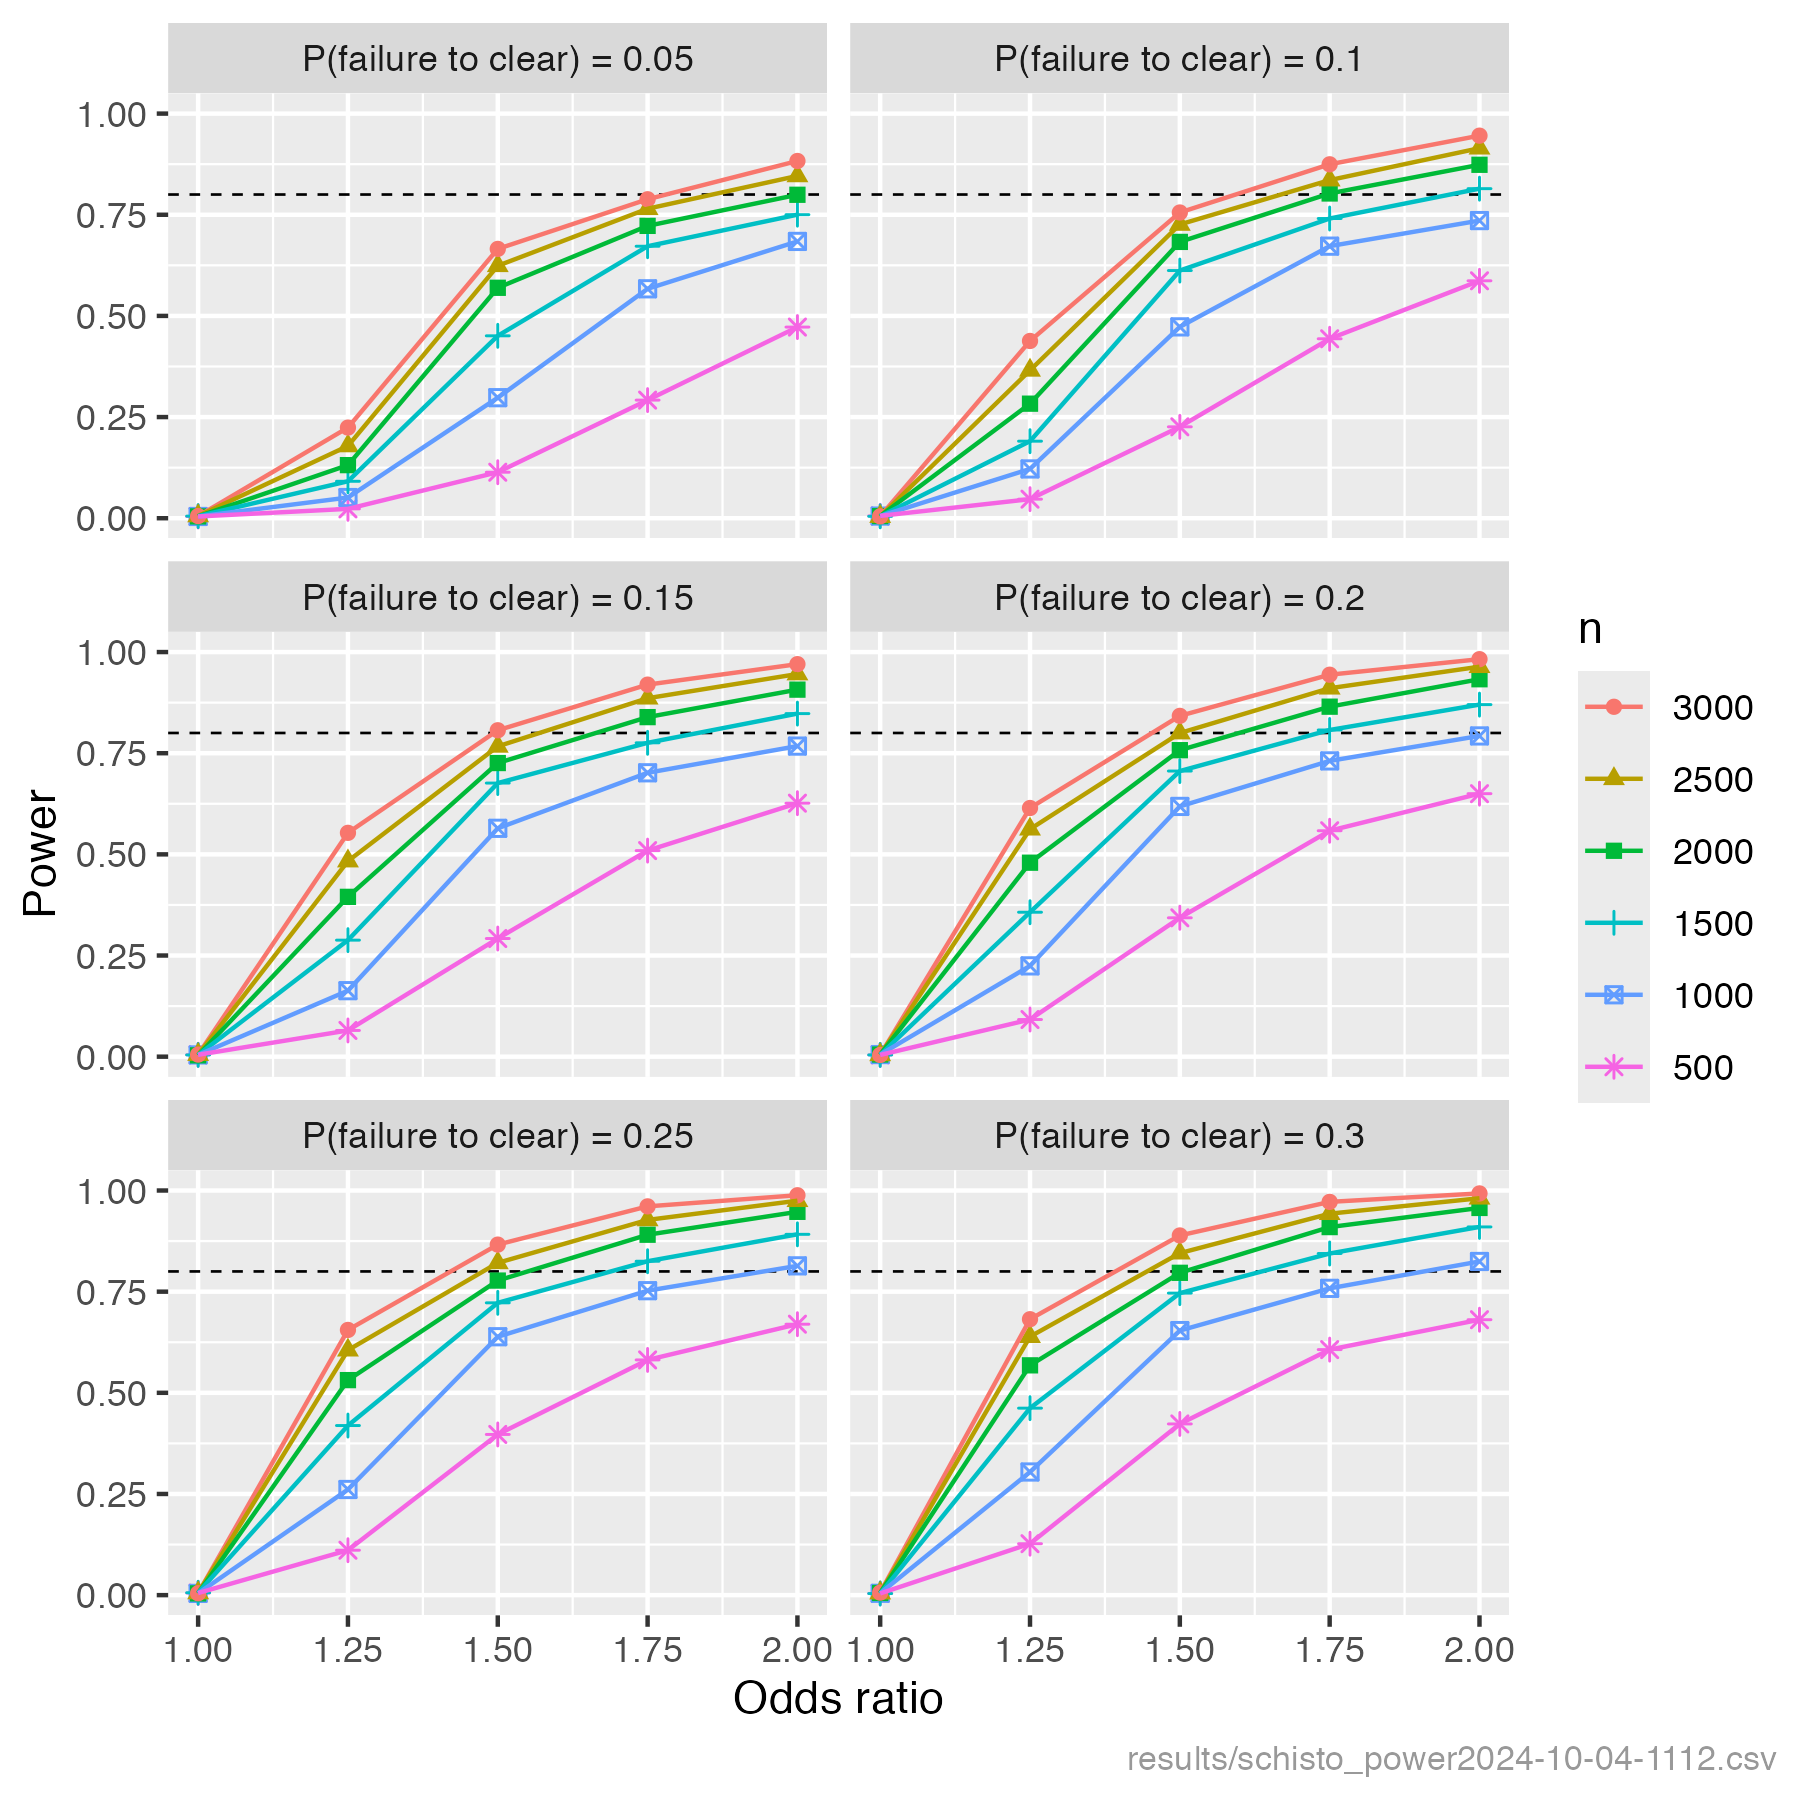
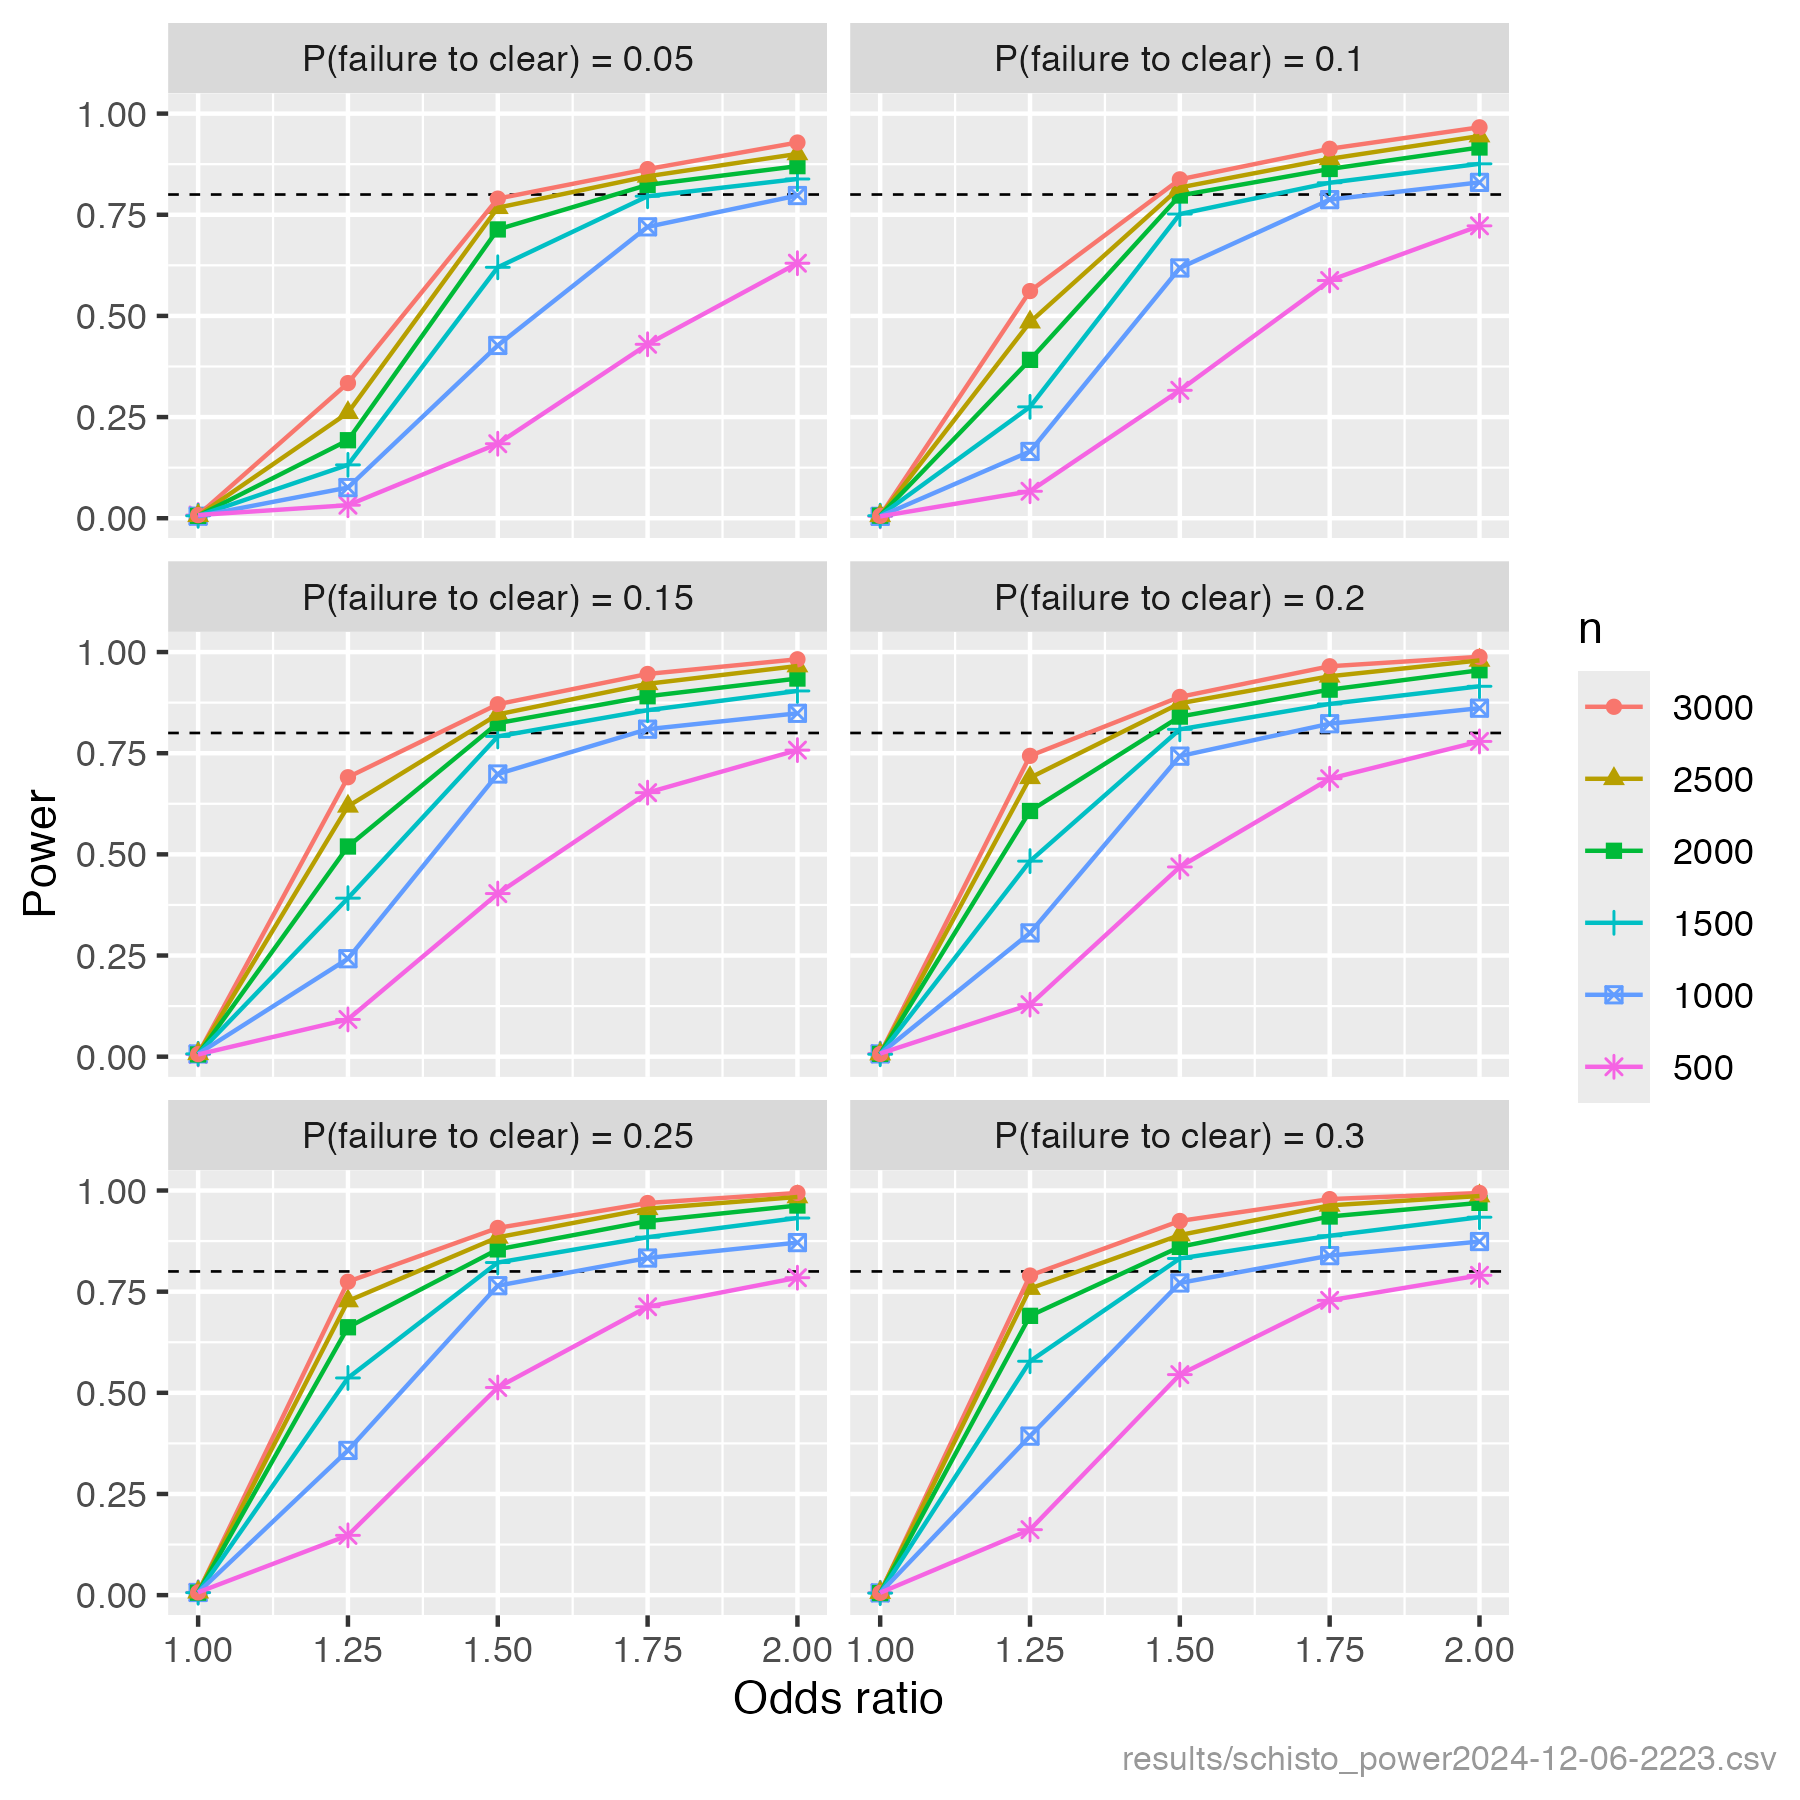
Remove malaria and STH as binary drivers

diff --git a/README.md b/README.md
@@ -27,9 +27,9 @@
  The aim of this power analysis is to estimate power to detect drivers of praziquantel treatment failure in individuals infected with schistosomiasis. This is a simulation-based power analysis, where the study data is simulated and analysed multiple times under varying study design scenarios, and power is estimated as the proportion of simulated analyses that achieve the desired outcome (detecting a true driver of treatment failure). The association between the outcome (treatment failure) and each driver is estimated and tested in a multivariable GLM. For this analysis, power is defined as the proportion of drivers that are significantly associated with the outcome, averaged across 1000 simulated data analyses per scenario.
 
  The following assumptions are made:
-- 10 drivers are associated with the outcome, of which 4 are binary and 6 continuous. The prevalences of the binary drivers are: 0.2, 0.2, 0.2, 0.5, representing drivers such as co-infection (soil-transmitted helminths, malaria) and hybrid/resistance presence).
+- 8 drivers are associated with the outcome, of which 2 are binary and 6 continuous. The prevalences of the binary drivers are: 0.2, 0.2, representing  HIV, hybrid/resistance presence .
  - The drivers are correlated with each other, with a common correlation coefficient of 0.25. We don’t know what the true correlation is among drivers, but moderate correlations are likely and neglecting them will give optimistic power estimates.
- - In order to control inflation of the number of false positive results due to multiple testing of 10 drivers, the significance threshold of 0.05 is Bonferroni-adjusted to 0.005, i.e. a driver is significant if P < 0.005.
+ - In order to control inflation of the number of false positive results due to multiple testing of 8 drivers, the significance threshold of 0.05 is Bonferroni-adjusted to 0.00625, i.e. a driver is significant if P < 0.00625.
 
  We explore the effect on power of varying the following study design choices/assumptions:
  - Sample size (number of infected and treated individuals): 500, 1000, 1500, 2000, 2500, 3000.
